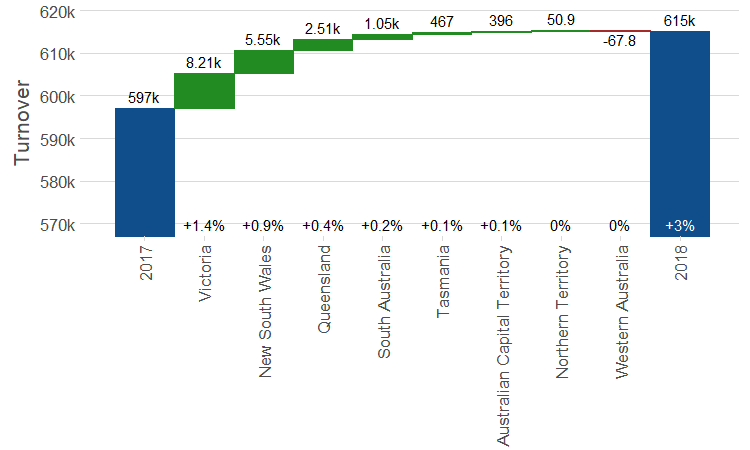
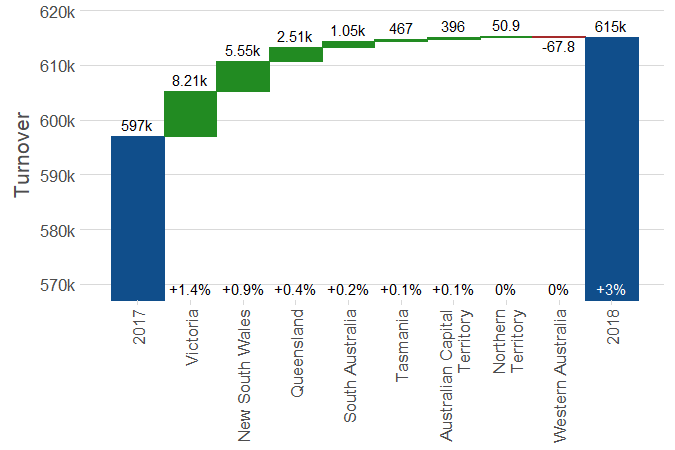
readme updates

diff --git a/README.md b/README.md
@@ -33,18 +33,17 @@ ezplot provides high-level wrapper functions for common chart types with reduced
 - `side_plot()`
 - `secondary_plot()`
 
+## Usage
 ``` r
 library(ezplot)
 library(tsibbledata)
 ```
-## Usage
 ### line_plot
 ``` r
 line_plot(ansett, x = "Week", y = "Passengers") # weekly aggregate "Passengers"
 ```
 ![](man/figures/README-line_plot_1.png)<!-- -->
 ``` r
-# Other examples:
 line_plot(ansett, x = "Week", y = "Passengers", group = "Airports") # adds "Airports" grouping
 line_plot(ansett, x = "Week", y = "Passengers", group = "Airports", facet_x = "Class") # facet by "Class"
 ```
@@ -67,7 +66,6 @@ area_plot(ansett, x = "Week", y = c("Weekly Passengers" = "Passengers"), "Class"
 ![](man/figures/README-area_plot.png)<!-- -->
 
 ``` r
-# Other examples:
 area_plot(ansett, "Week",
           y = c("Yearly Passengers" = "Passengers"),
           group = "substr(Airports, 5, 7)",
@@ -78,8 +76,10 @@ area_plot(ansett, "Week",
 ### bar_plot
 ``` r
 bar_plot(ansett, x = "lubridate::year(Week)", y = "Passengers")
-bar_plot(ansett, x = "lubridate::year(Week)",
-         y = c("Yearly Passengers" = "Passengers"), "Class")
+bar_plot(ansett, 
+         x = "lubridate::year(Week)",
+         y = c("Yearly Passengers" = "Passengers"),
+         "Class")
 
 ```
 ![](man/figures/README-bar_plot.png)<!-- -->
@@ -97,13 +97,18 @@ nyc_bikes %>%
 
 ### waterfall_plot
 ```r
-waterfall_plot(aus_retail, "lubridate::year(Month)", "Turnover", "sub(' Territory', '\nTerritory', State)", rotate_xlabel = TRUE)
+waterfall_plot(aus_retail,
+               "lubridate::year(Month)",
+               "Turnover", 
+               "sub(' Territory', '\nTerritory', State)", 
+               rotate_xlabel = TRUE)
 ```
 ![](man/figures/README-waterfall_plot.png)<!-- -->
 
 ### side_plot
 ```r
-side_plot(PBS, "paste(Concession, Type, sep = ' - ')", 
+side_plot(PBS, 
+          "paste(Concession, Type, sep = ' - ')", 
           c("Scripts", "Cost", "Average Cost" = "~ Cost / Scripts"))
 ```
 ![](man/figures/README-side_plot.png)<!-- -->
